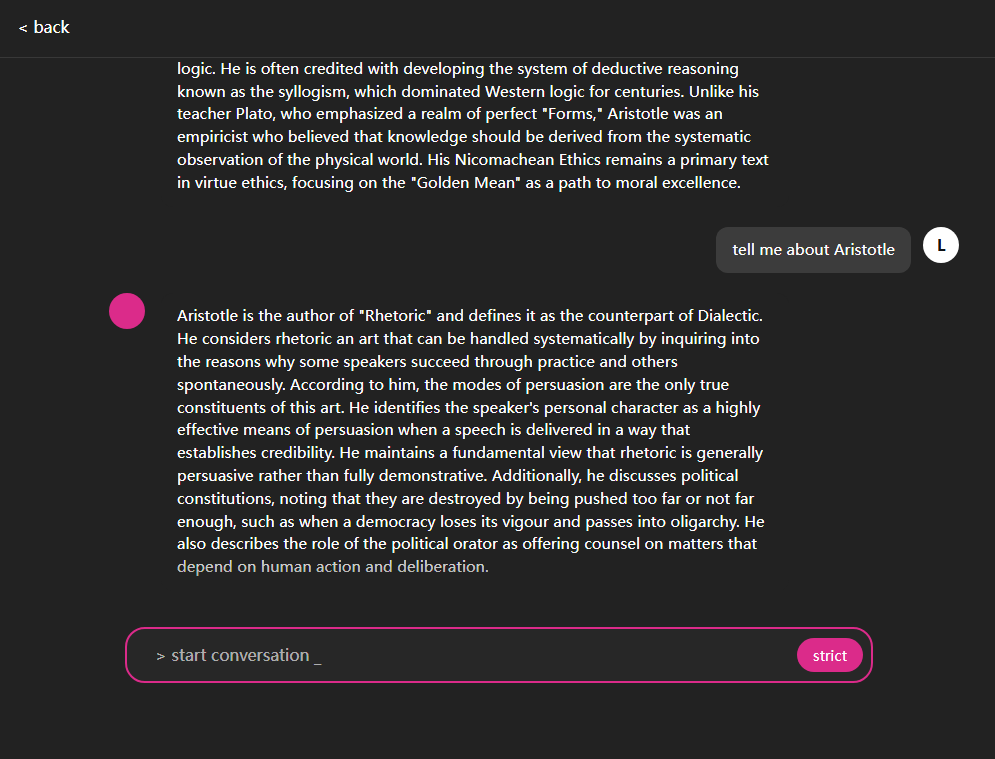
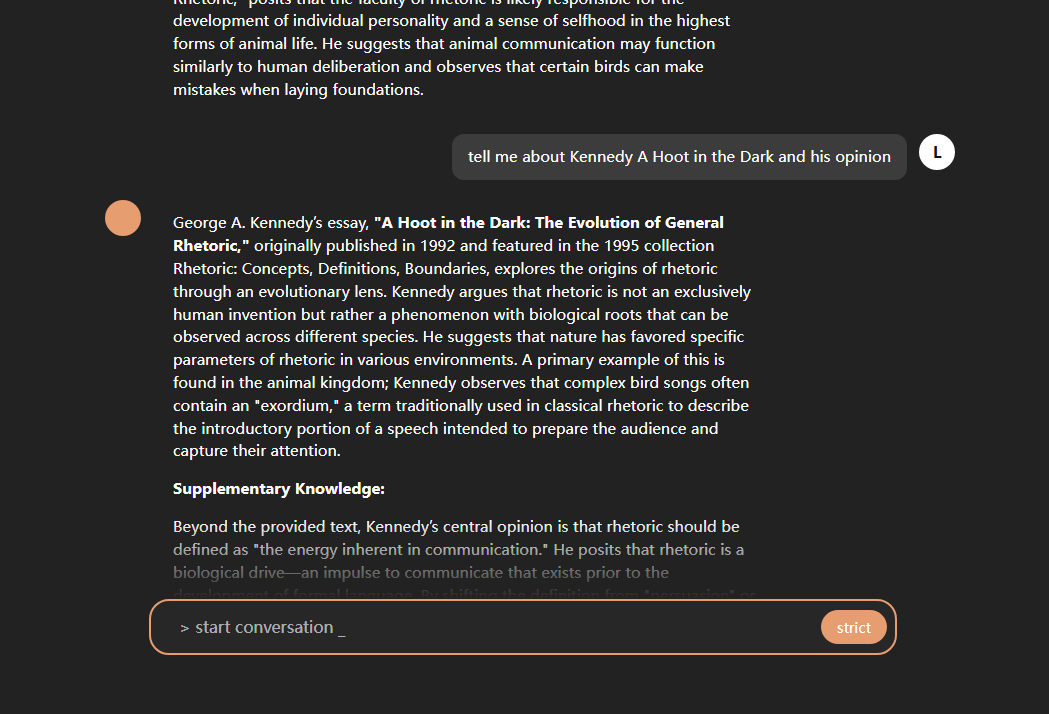
changed color schema

Changed region(s): [[0.0935, 0.2773, 0.8724, 0.9244], [0.1558, 0.0, 0.9658, 0.3697], [0.0312, 0.0308, 0.0623, 0.0616]]

diff --git a/frontend/app/components/AuthView.module.css b/frontend/app/components/AuthView.module.css
@@ -84,7 +84,7 @@
 }
 
 .logoB {
-  color: #ffa3c7;
+  color: #e7ae8a;
   position: relative;
   display: inline-block;
 }
@@ -96,7 +96,7 @@
   transform: translateX(-50%);
   font-size: 0.75em;
   margin-bottom: -0.66em;
-  color: #ffa3c7;
+  color: #e7ae8a;
 }
 
 .logoCursor {
@@ -134,7 +134,7 @@
 .cueHighlight {
   display: inline-block;
   color: #000000;
-  background: #ffa3c7;
+  background: #e7ae8a;
   padding: 0.15em 0.5em;
   border-radius: 8px;
   margin-left: 0.15em;
@@ -273,7 +273,7 @@
   font-weight: 600;
   color: #fff;
   background: #3a3a3a;
-  border: 2px solid #ffa3c7;
+  border: 2px solid #e7ae8a;
   border-radius: 10px;
   cursor: pointer;
   width : 100%;
@@ -283,7 +283,7 @@
 
 .submit:hover:not(:disabled) {
   background: #353535;
-  border: 2px solid #bd7993;
+  border: 2px solid #bd9b79;
   border-radius: 10px;
   transition: background 0.2s, opacity 0.2s;
 }
@@ -305,7 +305,7 @@
   margin-top: 0.25rem;
   width: 1.1rem;
   height: 1.1rem;
-  accent-color: #ffa3c7;
+  accent-color: #e7ae8a;
   cursor: pointer;
   flex-shrink: 0;
 }
@@ -318,7 +318,7 @@
 }
 
 .agreeLink {
-  color: #ffa3c7;
+  color: #e7ae8a;
   text-decoration: none;
   font-weight: 500;
 }

diff --git a/frontend/app/components/DashboardView.jsx b/frontend/app/components/DashboardView.jsx
@@ -65,7 +65,15 @@ export default function DashboardView({ user, onLogout }) {
           className={styles.logoBtn}
           aria-label="Home"
         >
-          <img src="/images/logo.png" alt="CueBase" className={styles.logoImg} />
+          <span className={styles.logo} aria-hidden="true">
+            <span className={styles.logoCue}>Cue</span>
+            <span className={styles.logoB}>
+              <span className={styles.logoArrow} aria-hidden="true">→</span>
+              B
+            </span>
+            <span className={styles.logoAse}>ase</span>
+            <span className={styles.logoCursor}>_</span>
+          </span>
         </button>
         <div className={styles.sidebarBox}>
           <div className={styles.userBlock}>

diff --git a/frontend/app/components/FeaturesContent.module.css b/frontend/app/components/FeaturesContent.module.css
@@ -20,7 +20,7 @@
 }
 
 .accent {
-  color: #ffa3c7;
+  color: #e7ae8a;
 }
 
 .heroSub {
@@ -38,16 +38,16 @@
   font-size: 1rem;
   font-weight: 600;
   color: #000;
-  background: #ffa3c7;
-  border: 2px solid #ffa3c7;
+  background: #e7ae8a;
+  border: 2px solid #e7ae8a;
   border-radius: 10px;
   text-decoration: none;
   transition: background 0.2s, border-color 0.2s, transform 0.2s;
 }
 
 .cta:hover {
-  background: #bd7993;
-  border-color: #bd7993;
+  background: #da9c76;
+  border-color: #da9c76;
   transform: translateY(-2px);
 }
 
@@ -227,7 +227,7 @@
   font-size: 1.3rem;
   font-weight: 600;
   margin: 0 0 0.5rem;
-  color: #ffa3c7;
+  color: #e7ae8a;
 }
 
 .modeDesc {

diff --git a/frontend/app/components/DashboardView.module.css b/frontend/app/components/DashboardView.module.css
@@ -39,11 +39,38 @@
   opacity: 0.85;
 }
 
-.logoImg {
-  display: block;
-  height: 40px;
-  width: auto;
-  object-fit: contain;
+.logo {
+  display: inline-block;
+  font-size: 1.50rem;
+  font-weight: 400;
+  letter-spacing: 0.00em;
+  line-height: 1.2;
+  color: #fff;
+}
+
+.logoCue,
+.logoAse {
+  color: #fff;
+}
+
+.logoB {
+  color: #e7ae8a;
+  position: relative;
+  display: inline-block;
+}
+
+.logoArrow {
+  position: absolute;
+  left: 50%;
+  bottom: 100%;
+  transform: translateX(-50%);
+  font-size: 0.75em;
+  margin-bottom: -0.66em;
+  color: #e7ae8a;
+}
+
+.logoCursor {
+  color: #fff;
 }
 
 .sidebarBox {

diff --git a/frontend/app/components/ChatWithMeView.module.css b/frontend/app/components/ChatWithMeView.module.css
@@ -20,8 +20,8 @@
 }
 
 .page[data-mode="strict"] {
-  --model-avatar: #db2b8a;
-  --input-bar-ring: #db2b8a;
+  --model-avatar: #e69d70;
+  --input-bar-ring: #e69d70;
 }
 
 .page[data-mode="search"] {
@@ -208,7 +208,7 @@
 }
 
 .modeBtn[aria-pressed="true"] {
-  background: #db2b8a;
+  background: #e69d70;
 }
 
 .modeBtn[aria-pressed="false"] {
